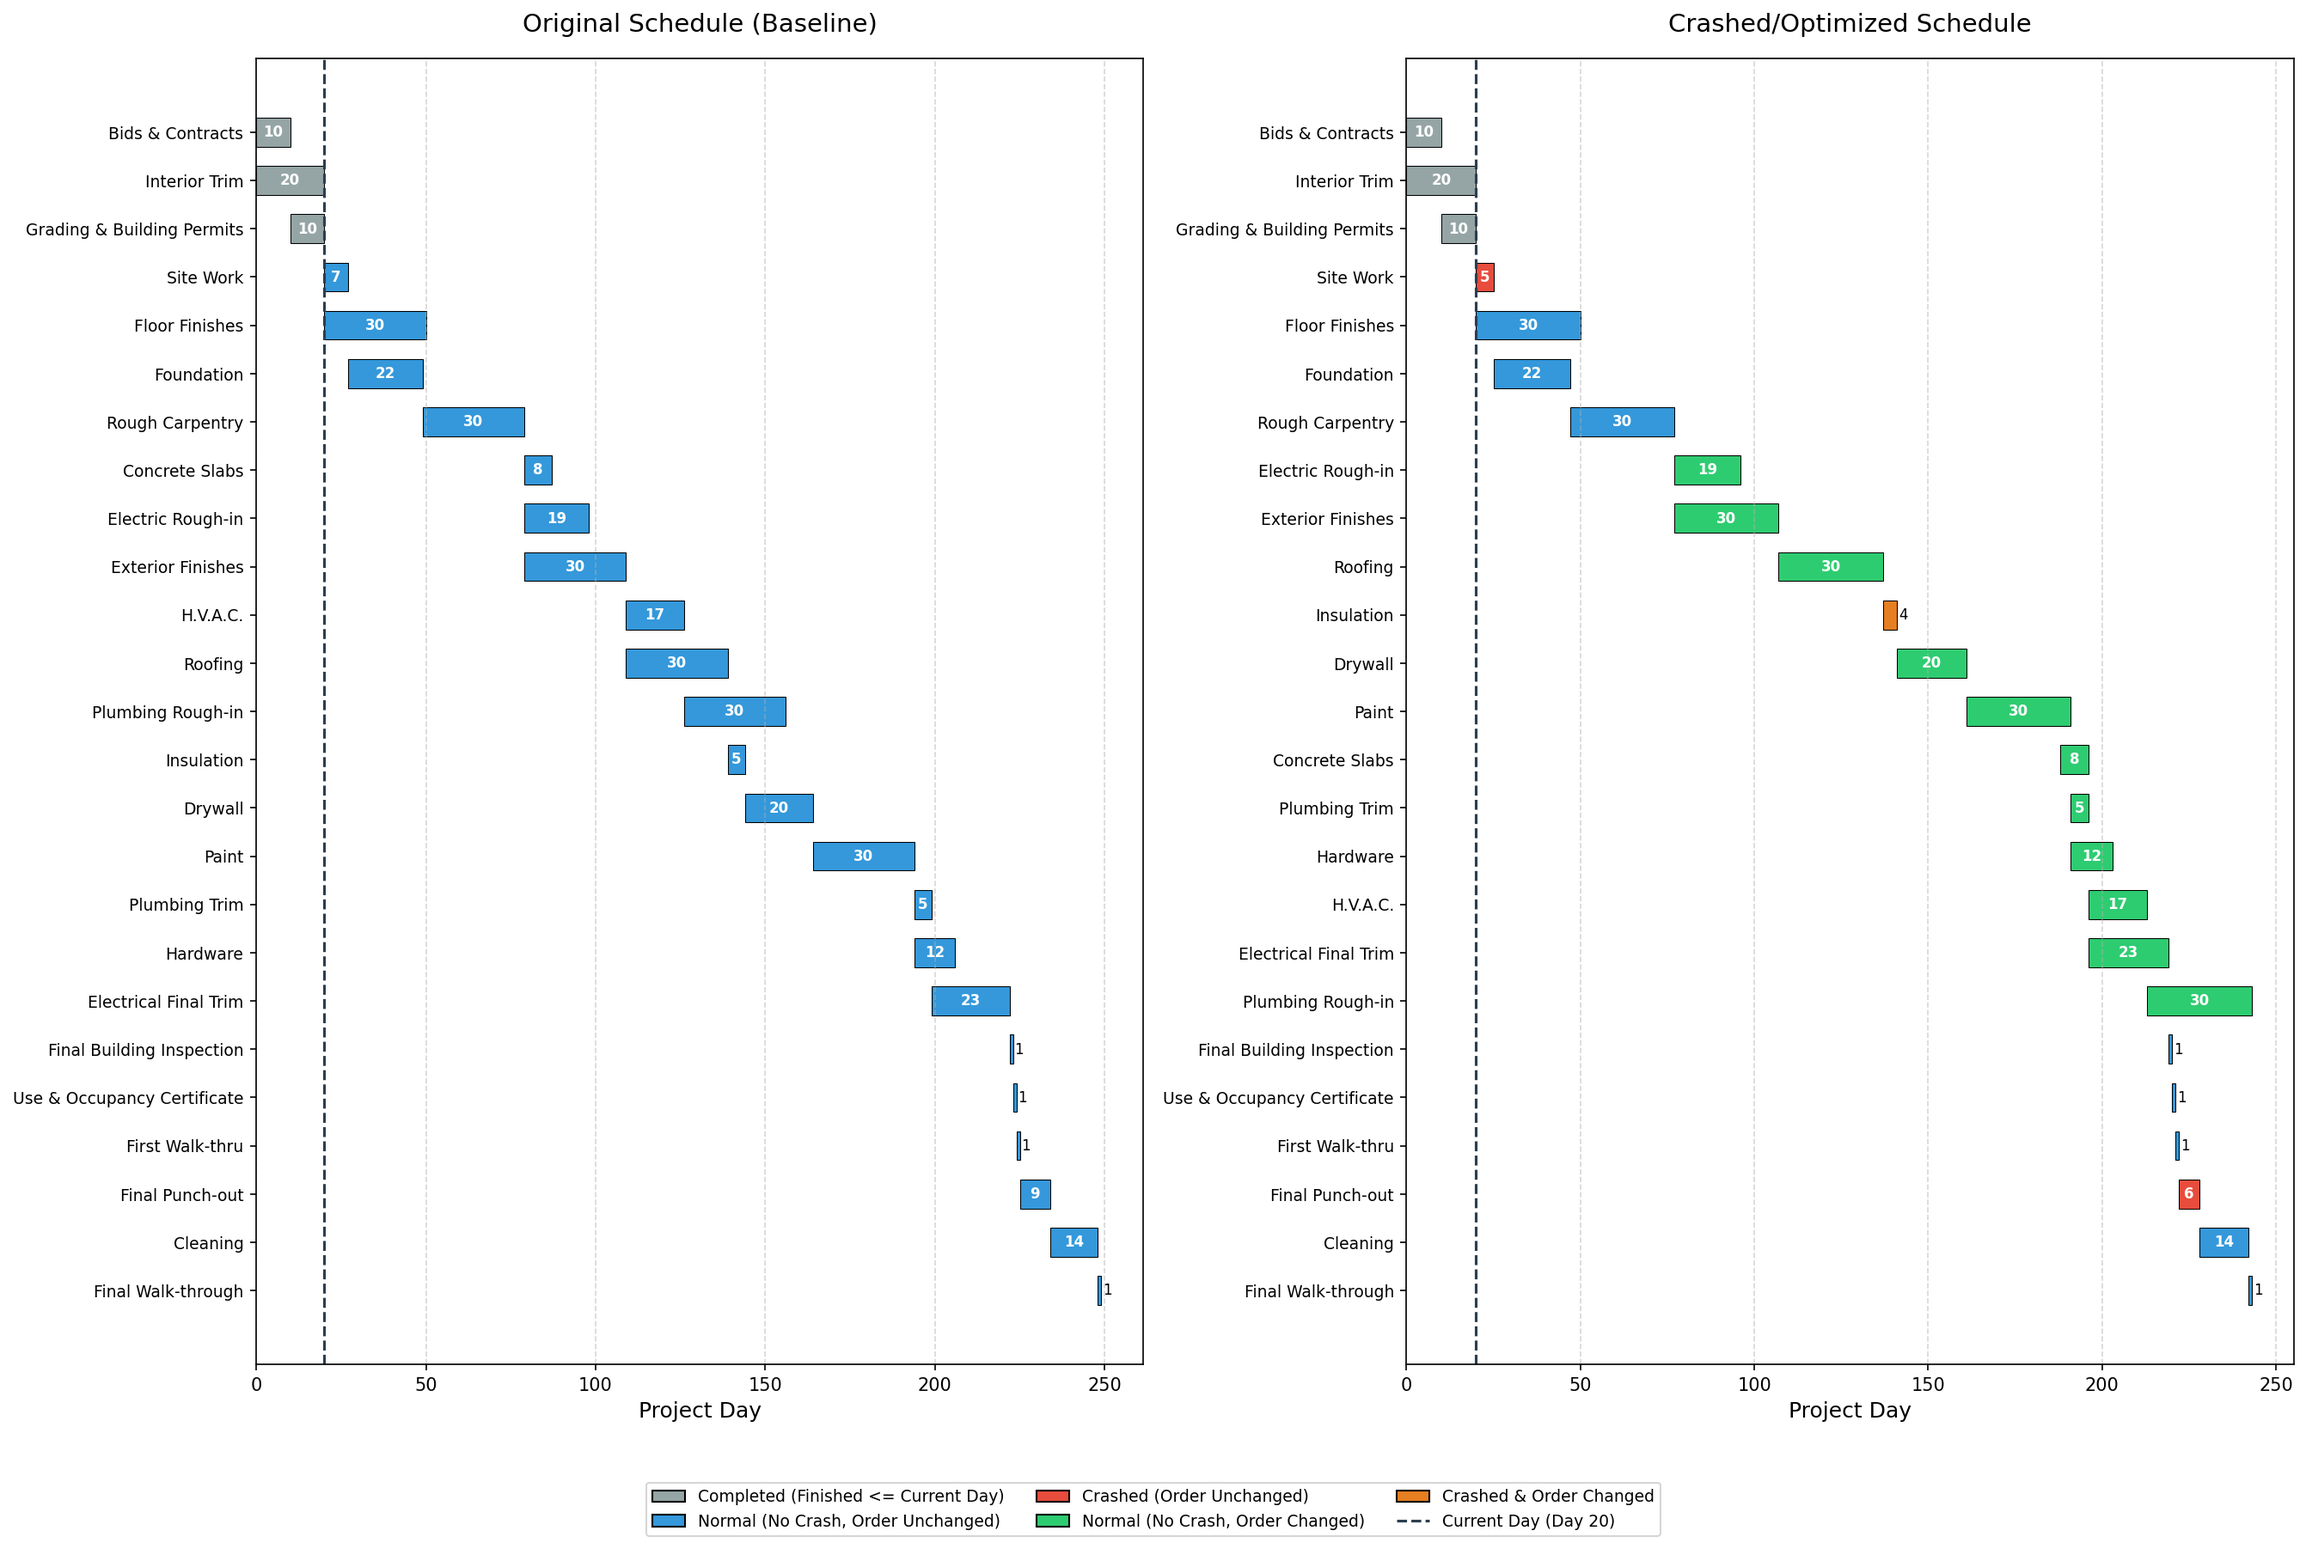
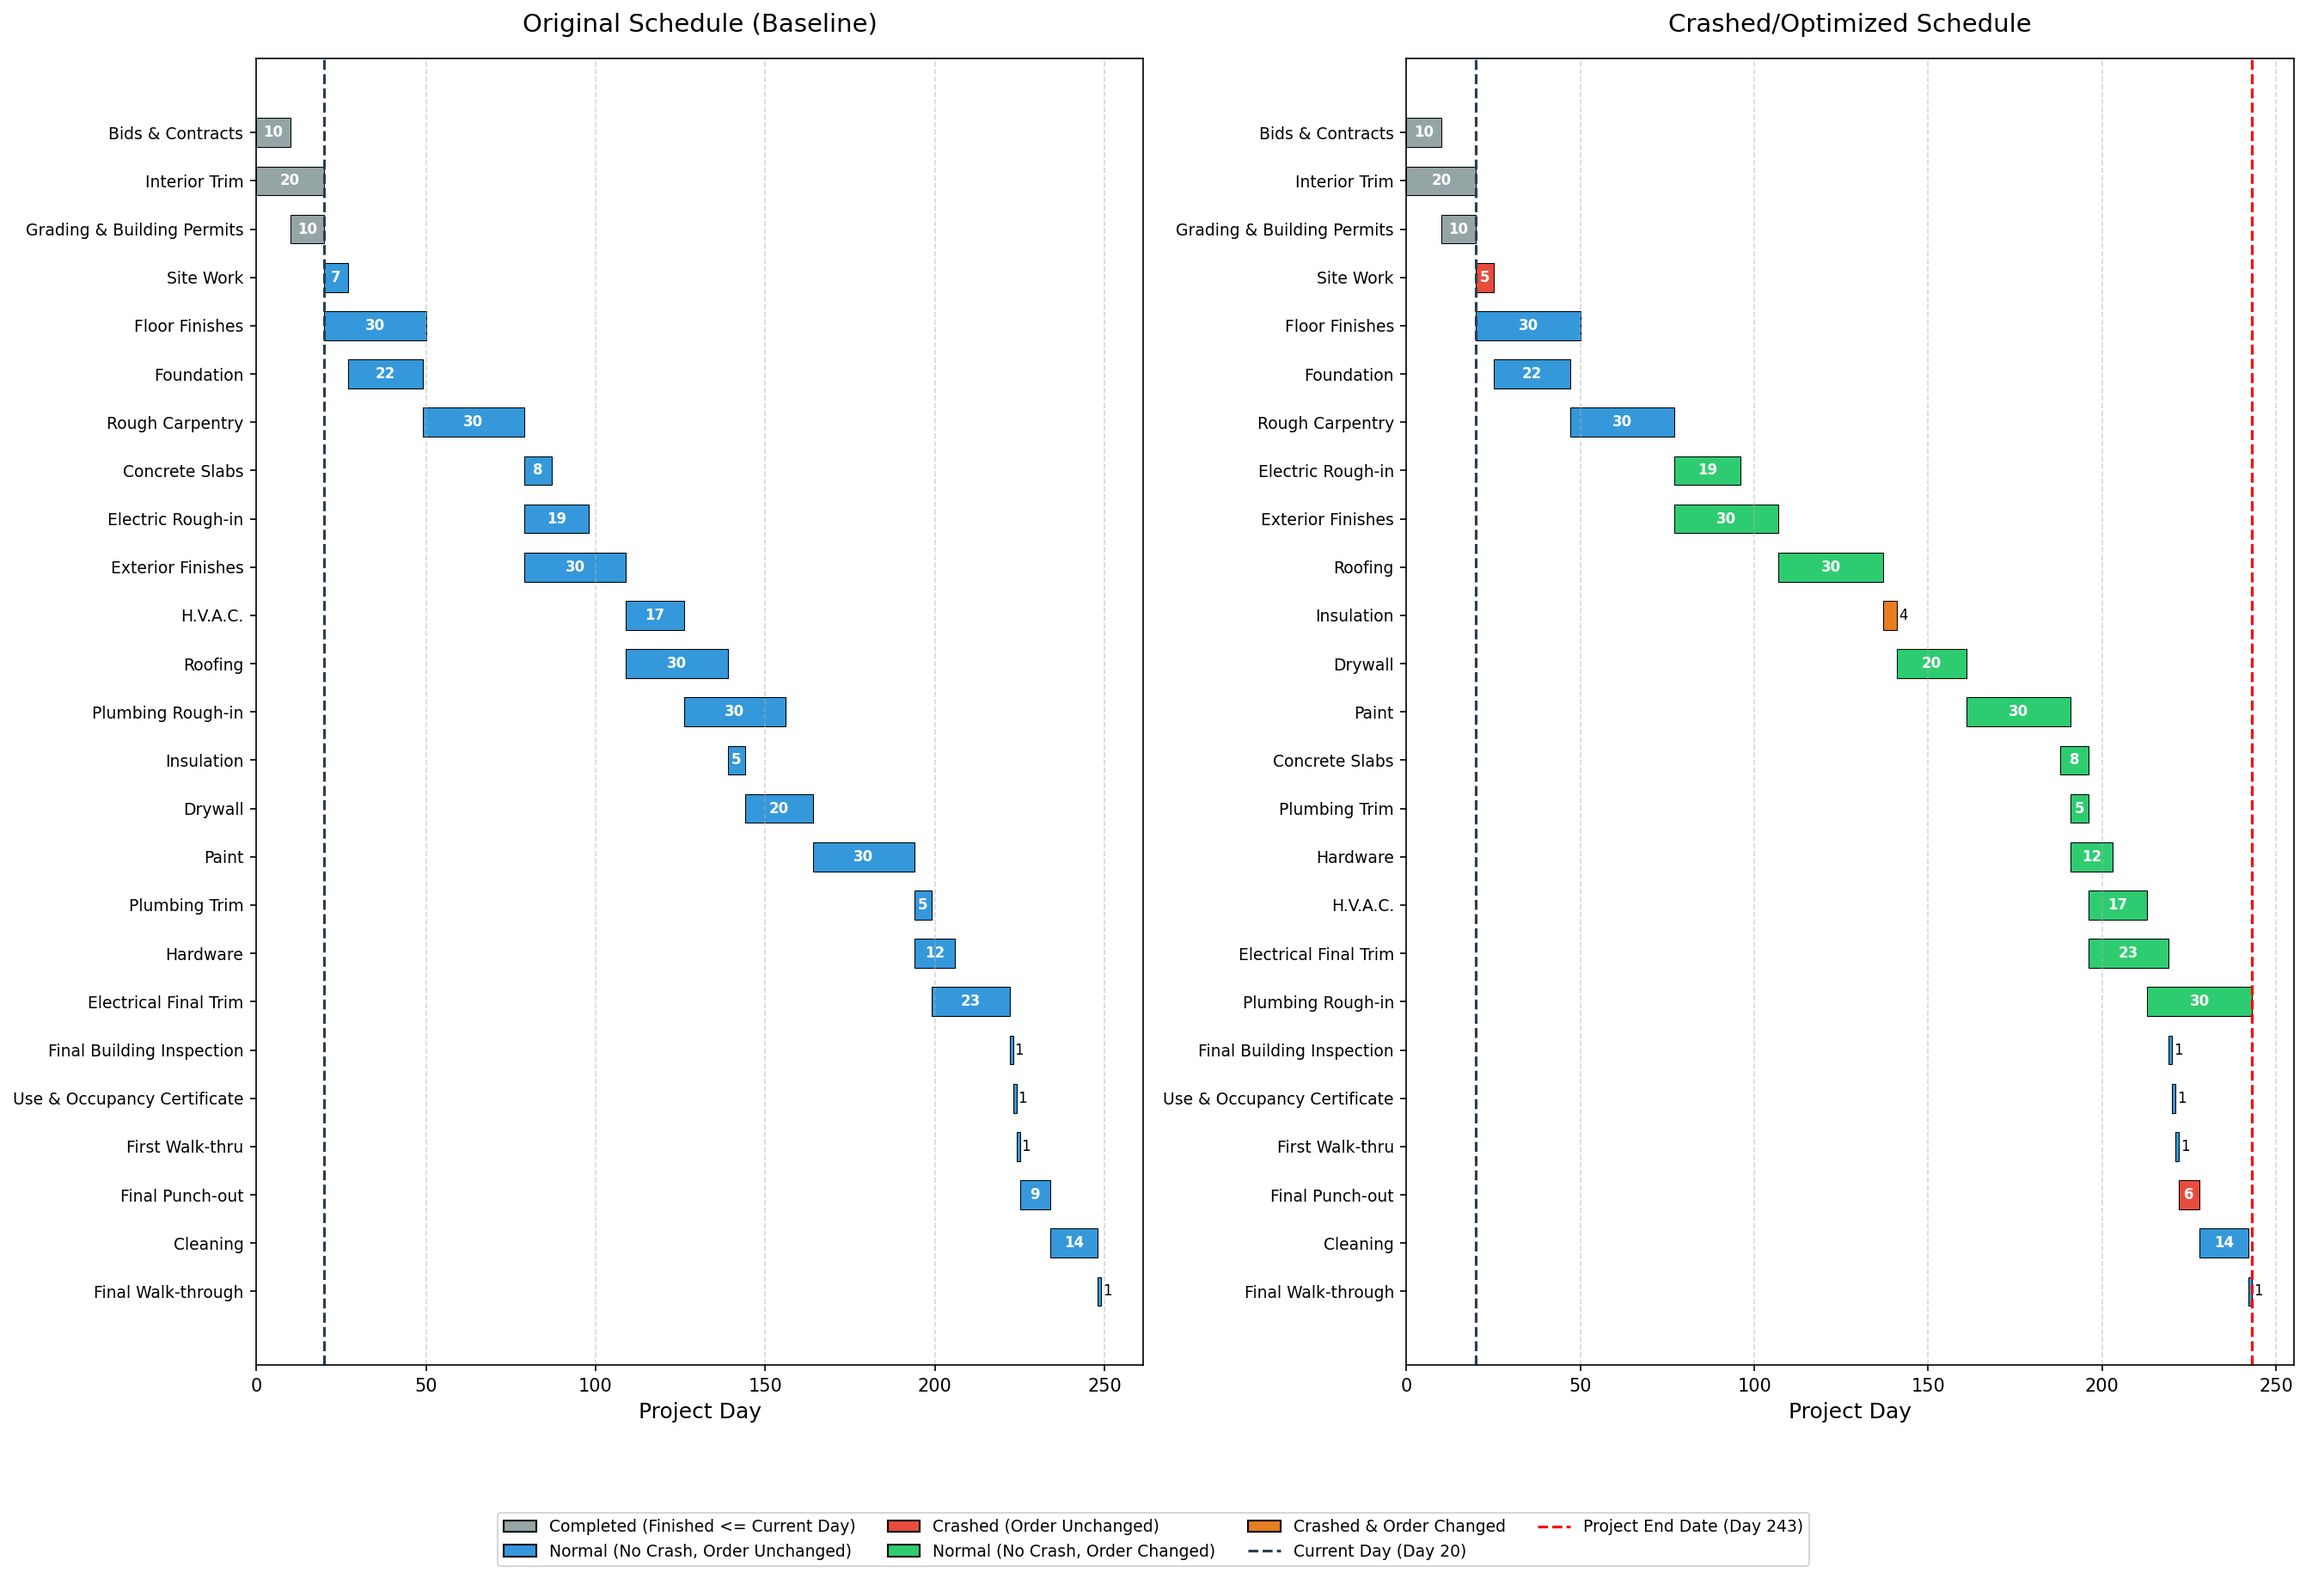
feat: enhance Gantt comparison plot with project end date indicator

diff --git a/solve_project_crashing.py b/solve_project_crashing.py
@@ -655,6 +655,10 @@ def generate_gantt_comparison_plot(
     
     # Add vertical dashed line for current_day
     ax2.axvline(x=current_day, color="#2c3e50", linestyle="--", linewidth=1.5)
+    
+    # Add vertical dashed line for project end date (color red)
+    opt_end_date = max(row["end"] for row in optimized_schedule) if optimized_schedule else 0
+    ax2.axvline(x=opt_end_date, color="red", linestyle="--", linewidth=1.5)
 
     # Add custom legend
     legend_elements = [
@@ -664,8 +668,9 @@ def generate_gantt_comparison_plot(
         Patch(facecolor="#2ecc71", edgecolor="black", label="Normal (No Crash, Order Changed)"),
         Patch(facecolor="#e67e22", edgecolor="black", label="Crashed & Order Changed"),
         Line2D([0], [0], color="#2c3e50", linestyle="--", linewidth=1.5, label=f"Current Day (Day {current_day})"),
+        Line2D([0], [0], color="red", linestyle="--", linewidth=1.5, label=f"Project End Date (Day {opt_end_date})"),
     ]
-    fig.legend(handles=legend_elements, loc="lower center", bbox_to_anchor=(0.5, -0.07), ncol=3, fontsize=9)
+    fig.legend(handles=legend_elements, loc="lower center", bbox_to_anchor=(0.5, -0.09), ncol=4, fontsize=9)
 
     plt.tight_layout()
     os.makedirs(os.path.dirname(output_path) or ".", exist_ok=True)
